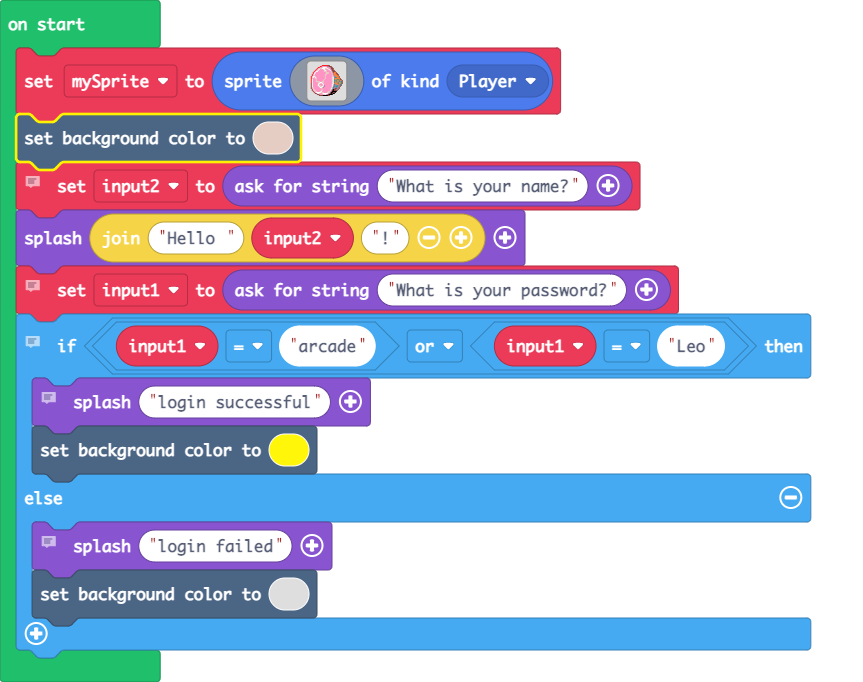
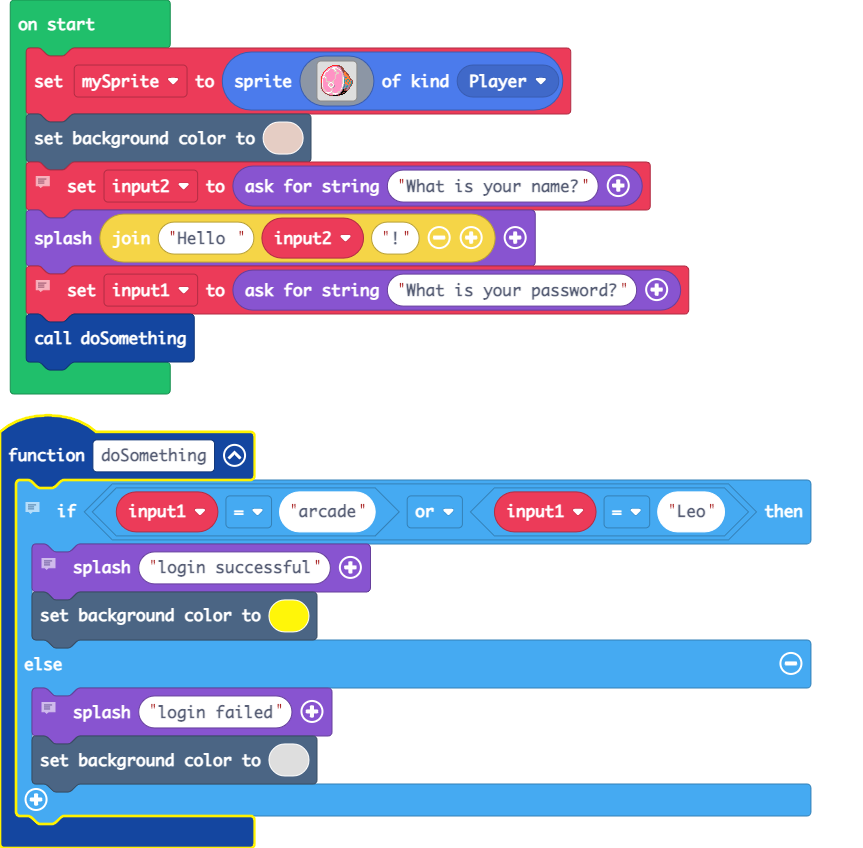
added a function

diff --git a/main.ts b/main.ts
@@ -1,3 +1,16 @@
+function doSomething () {
+    // input 1 and arcade equals together
+    if (input1 == "arcade" || input1 == "Leo") {
+        // when the user puts arcade its login successful
+        game.splash("login successful")
+        scene.setBackgroundColor(5)
+    } else {
+        // if user doesn't put arcade its login failed
+        game.splash("login failed")
+        scene.setBackgroundColor(0)
+    }
+}
+let input1 = ""
 let mySprite = sprites.create(img`
     ...........222222ee.............
     .........2233333bbeee...........
@@ -37,14 +50,5 @@ scene.setBackgroundColor(13)
 let input2 = game.askForString("What is your name?")
 game.splash("Hello " + input2 + "!")
 // asks for what your password is
-let input1 = game.askForString("What is your password?")
-// input 1 and arcade equals together
-if (input1 == "arcade" || input1 == "Leo") {
-    // when the user puts arcade its login successful
-    game.splash("login successful")
-    scene.setBackgroundColor(5)
-} else {
-    // if user doesn't put arcade its login failed
-    game.splash("login failed")
-    scene.setBackgroundColor(0)
-}
+input1 = game.askForString("What is your password?")
+doSomething()
